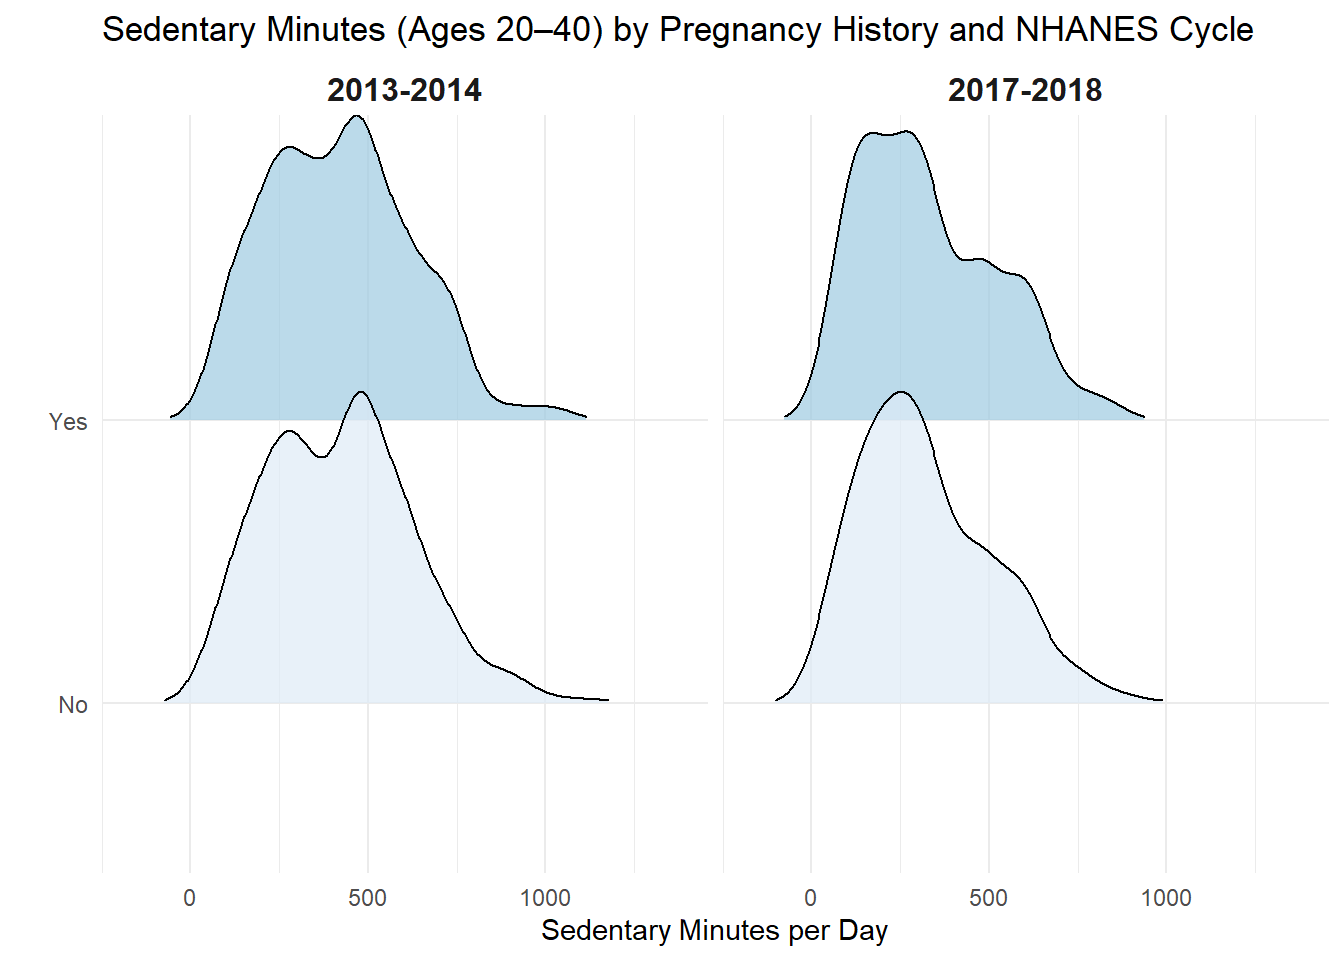
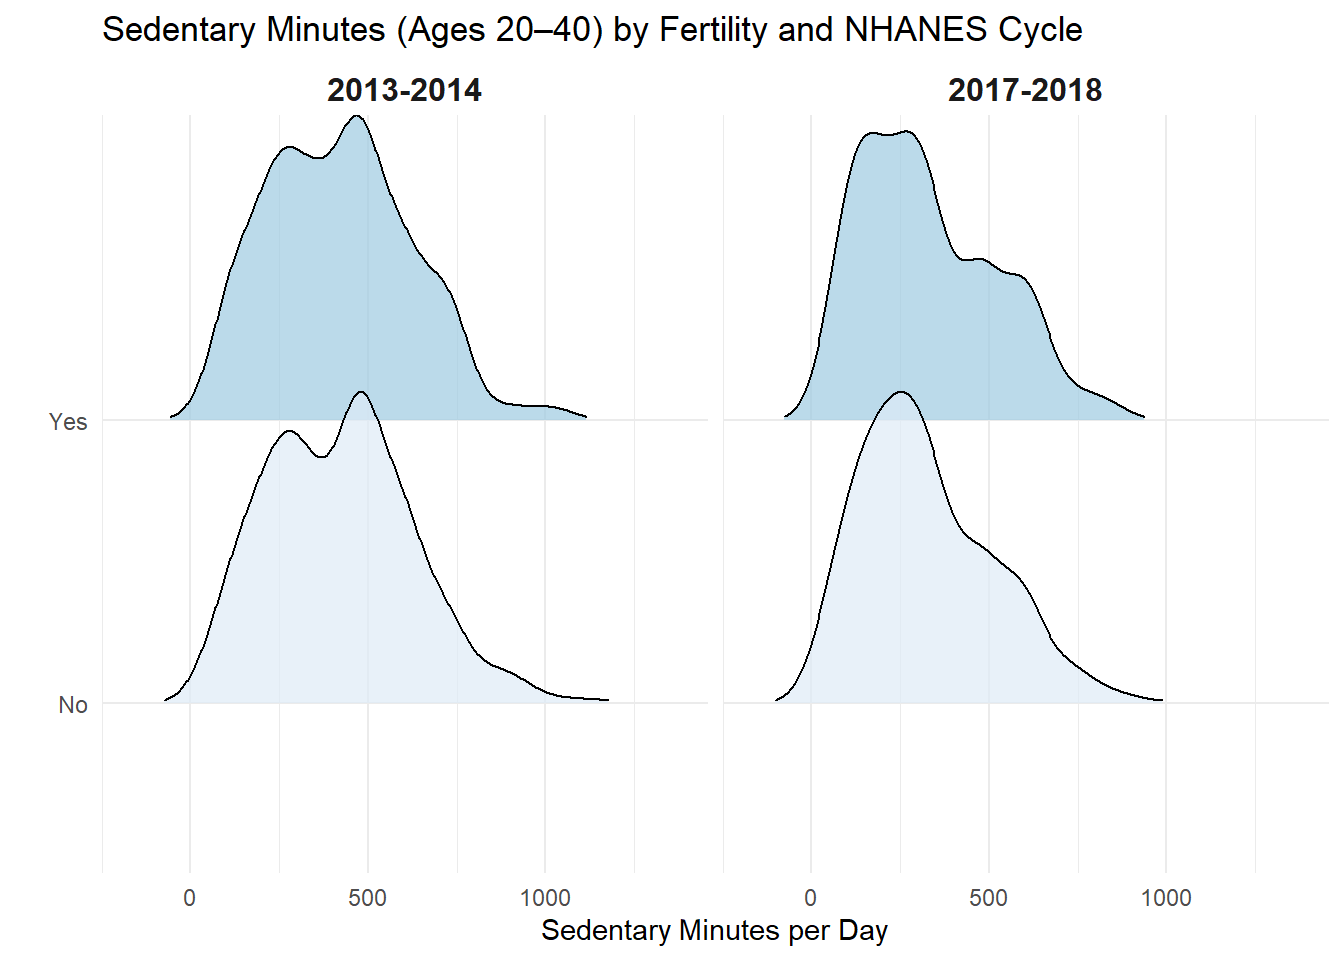
updated a couple graph titles

Changed region(s): [[0.5, 0.0, 0.9375, 0.0625]]

diff --git a/docs/results.html b/docs/results.html
@@ -533,7 +533,7 @@ pre > code.sourceCode > span > a:first-child::before { text-decoration: underlin
 <span id="cb12-5"><a href="#cb12-5" aria-hidden="true" tabindex="-1"></a>  <span class="fu">labs</span>(</span>
 <span id="cb12-6"><a href="#cb12-6" aria-hidden="true" tabindex="-1"></a>    <span class="at">x =</span> <span class="st">"Sedentary Minutes per Day"</span>,</span>
 <span id="cb12-7"><a href="#cb12-7" aria-hidden="true" tabindex="-1"></a>    <span class="at">y =</span> <span class="st">""</span>,</span>
-<span id="cb12-8"><a href="#cb12-8" aria-hidden="true" tabindex="-1"></a>    <span class="at">title =</span> <span class="st">"Sedentary Minutes (Ages 20–40) by Pregnancy History and NHANES Cycle"</span></span>
+<span id="cb12-8"><a href="#cb12-8" aria-hidden="true" tabindex="-1"></a>    <span class="at">title =</span> <span class="st">"Sedentary Minutes (Ages 20–40) by Fertility and NHANES Cycle"</span></span>
 <span id="cb12-9"><a href="#cb12-9" aria-hidden="true" tabindex="-1"></a>  ) <span class="sc">+</span></span>
 <span id="cb12-10"><a href="#cb12-10" aria-hidden="true" tabindex="-1"></a>  <span class="fu">theme_minimal</span>() <span class="sc">+</span></span>
 <span id="cb12-11"><a href="#cb12-11" aria-hidden="true" tabindex="-1"></a>  <span class="fu">theme</span>(</span>
@@ -560,7 +560,7 @@ pre > code.sourceCode > span > a:first-child::before { text-decoration: underlin
 <span id="cb13-5"><a href="#cb13-5" aria-hidden="true" tabindex="-1"></a>  <span class="fu">labs</span>(</span>
 <span id="cb13-6"><a href="#cb13-6" aria-hidden="true" tabindex="-1"></a>    <span class="at">x =</span> <span class="st">"Infertility Status"</span>,</span>
 <span id="cb13-7"><a href="#cb13-7" aria-hidden="true" tabindex="-1"></a>    <span class="at">y =</span> <span class="st">"Sedentary Minutes per Day"</span>,</span>
-<span id="cb13-8"><a href="#cb13-8" aria-hidden="true" tabindex="-1"></a>    <span class="at">title =</span> <span class="st">"Sedentary Minutes (Ages 20–40) by Pregnancy History and NHANES Cycle"</span></span>
+<span id="cb13-8"><a href="#cb13-8" aria-hidden="true" tabindex="-1"></a>    <span class="at">title =</span> <span class="st">"Sedentary Minutes (Ages 20–40) by Fertility and NHANES Cycle"</span></span>
 <span id="cb13-9"><a href="#cb13-9" aria-hidden="true" tabindex="-1"></a>  ) <span class="sc">+</span></span>
 <span id="cb13-10"><a href="#cb13-10" aria-hidden="true" tabindex="-1"></a>  <span class="fu">theme_minimal</span>()</span></code><button title="Copy to Clipboard" class="code-copy-button"><i class="bi"></i></button></pre></div>
 </details>
@@ -655,7 +655,7 @@ pre > code.sourceCode > span > a:first-child::before { text-decoration: underlin
 <span id="cb16-14"><a href="#cb16-14" aria-hidden="true" tabindex="-1"></a>  <span class="fu">labs</span>(</span>
 <span id="cb16-15"><a href="#cb16-15" aria-hidden="true" tabindex="-1"></a>    <span class="at">title =</span> <span class="st">"Women's Physical Activity Trends (2011–2023)"</span>,</span>
 <span id="cb16-16"><a href="#cb16-16" aria-hidden="true" tabindex="-1"></a>    <span class="at">x =</span> <span class="st">"Year"</span>,</span>
-<span id="cb16-17"><a href="#cb16-17" aria-hidden="true" tabindex="-1"></a>    <span class="at">y =</span> <span class="st">"% of Women Responding 'Yes'"</span>,</span>
+<span id="cb16-17"><a href="#cb16-17" aria-hidden="true" tabindex="-1"></a>    <span class="at">y =</span> <span class="st">"% Meeting Exercise Guidelines"</span>,</span>
 <span id="cb16-18"><a href="#cb16-18" aria-hidden="true" tabindex="-1"></a>    <span class="at">color =</span> <span class="st">"Activity Type"</span></span>
 <span id="cb16-19"><a href="#cb16-19" aria-hidden="true" tabindex="-1"></a>  ) <span class="sc">+</span></span>
 <span id="cb16-20"><a href="#cb16-20" aria-hidden="true" tabindex="-1"></a>  <span class="fu">theme_minimal</span>(<span class="at">base_size =</span> <span class="dv">14</span>) <span class="sc">+</span></span>
